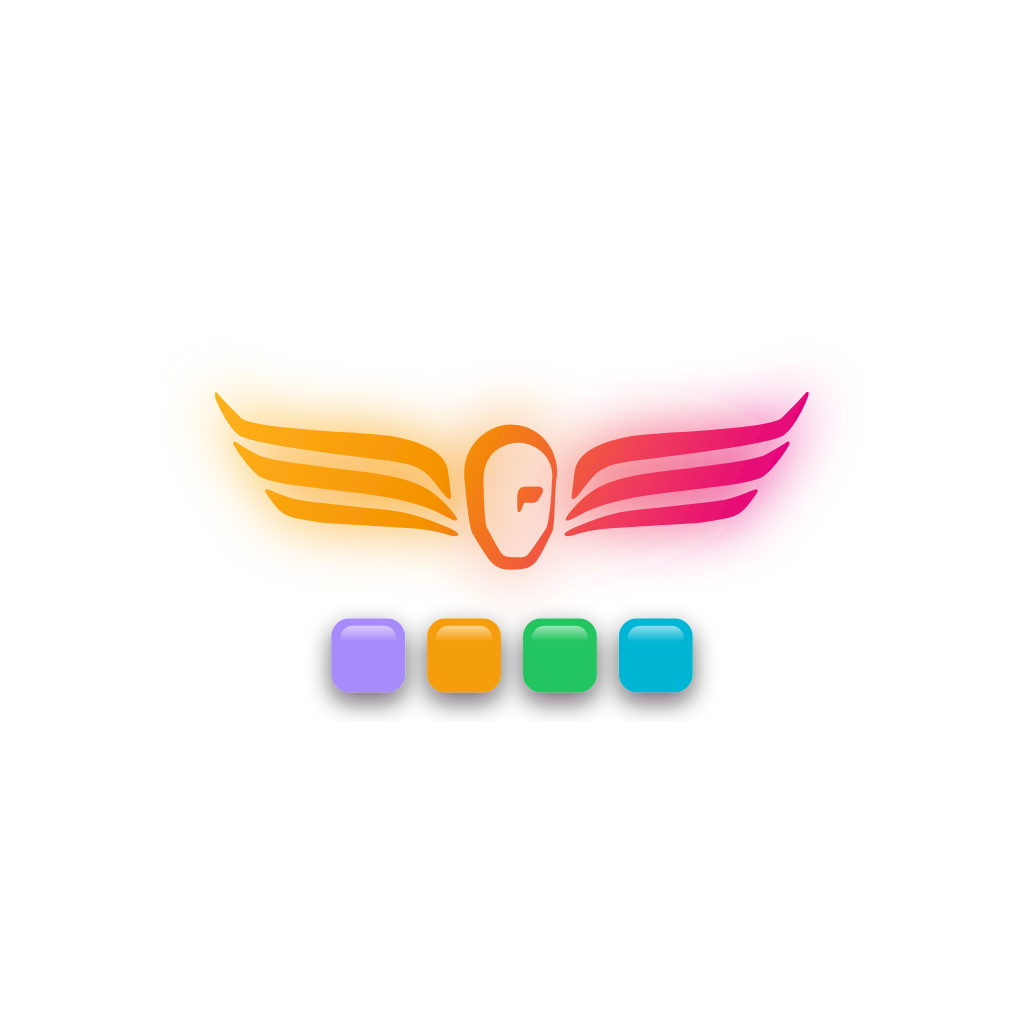
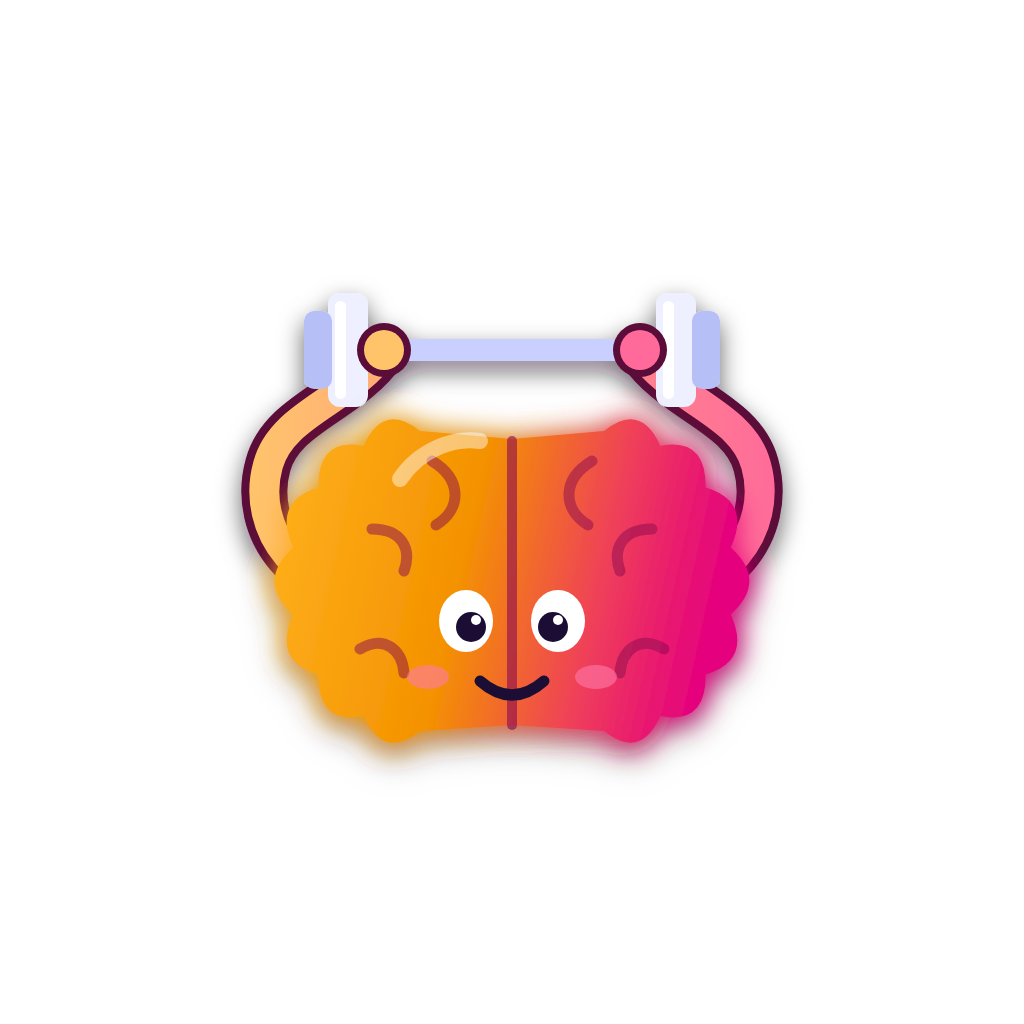
Ícono nuevo (cerebro con pesa) y ¿Cuántos quedan?: avisos al frente, nivel normal más tranquilo y nivel 4 rápido
- build-icons.py: la mascota reemplaza al grafotipo en todos los íconos;
  también en el gráfico de funciones de Play.
- Los avisos de la casa quedan por encima (z-20) de la casa.
- Nivel 3 (normal): 1.6 s por movimiento, baja a ~1.1 s en la última ronda.
- Nivel 4 nuevo con el ritmo rápido anterior.

Changed region(s): [[0.1875, 0.2812, 0.8125, 0.75]]

diff --git a/src/exercises/headcount/logic.ts b/src/exercises/headcount/logic.ts
@@ -16,6 +16,8 @@ export interface Level {
   speedUp: number;
   /** Sólo entran (nadie sale): el nivel más básico. */
   onlyIn?: boolean;
+  /** Las dos primeras rondas mueven a 1–2 personas; desde la tercera, hasta maxN. */
+  rampN?: boolean;
 }
 
 export const LEVELS: Record<string, Level> = {
@@ -29,13 +31,25 @@ export const LEVELS: Record<string, Level> = {
     onlyIn: true,
   },
   '2': { rounds: 4, baseMoves: 3, movesPerRound: 1, maxN: 2, stepMs: 1400, speedUp: 80 },
+  // Nivel normal: a paso tranquilo (la última ronda va a ~1.1 s por movimiento).
   '3': {
+    rounds: ROUNDS,
+    baseMoves: 4,
+    movesPerRound: 2,
+    maxN: 3,
+    stepMs: 1600,
+    speedUp: 120,
+    rampN: true,
+  },
+  // Rápido: para quien domina el normal (la última ronda va a ~0.6 s).
+  '4': {
     rounds: ROUNDS,
     baseMoves: 4,
     movesPerRound: 2,
     maxN: 3,
     stepMs: 1150,
     speedUp: 140,
+    rampN: true,
   },
 };
 
@@ -58,8 +72,7 @@ export function makeRound(rng: Rng, r: number, lv: Level = LEVELS['3']): Round {
   const moves: Move[] = [{ dir: 'in', n: randInt(rng, 1, Math.min(3, lv.maxN)) }];
   let inside = moves[0].n;
   const count = lv.baseMoves + r * lv.movesPerRound;
-  // En el nivel normal las dos primeras rondas mueven a 1–2 personas.
-  const maxN = lv === LEVELS['3'] ? (r >= 2 ? 3 : 2) : lv.maxN;
+  const maxN = lv.rampN && r < 2 ? Math.min(2, lv.maxN) : lv.maxN;
   while (moves.length < count) {
     const dir = lv.onlyIn || inside === 0 || rng() < 0.5 ? 'in' : 'out';
     const n = randInt(rng, 1, dir === 'out' ? Math.min(maxN, inside) : maxN);

diff --git a/src/core/i18n.ts b/src/core/i18n.ts
@@ -314,7 +314,8 @@ const es: Dict = {
   'lvl.trails.B20': 'Alternando 1→A→2→B… (20).',
   'lvl.headcount.1': '3 rondas lentas; la gente sólo entra.',
   'lvl.headcount.2': '4 rondas; entran y salen.',
-  'lvl.headcount.3': '5 rondas, cada vez más rápidas.',
+  'lvl.headcount.3': '5 rondas a paso tranquilo.',
+  'lvl.headcount.4': '5 rondas rápidas; cada vez más.',
 
   'settings.serene': 'Modo sereno',
   'settings.sereneHint':
@@ -730,7 +731,8 @@ const en: Dict = {
   'lvl.trails.B20': 'Alternating 1→A→2→B… (20).',
   'lvl.headcount.1': '3 slow rounds; people only walk in.',
   'lvl.headcount.2': '4 rounds; in and out.',
-  'lvl.headcount.3': '5 rounds, faster each time.',
+  'lvl.headcount.3': '5 rounds at a calm pace.',
+  'lvl.headcount.4': '5 fast rounds, faster each time.',
 
   'settings.serene': 'Calm mode',
   'settings.sereneHint':

diff --git a/src/exercises/headcount/HeadcountExercise.tsx b/src/exercises/headcount/HeadcountExercise.tsx
@@ -108,13 +108,13 @@ function Run({ seed, finish, lv }: RunProps & { lv: Level }) {
           </div>
         )}
         {stage === 'ready' && (
-          <p className="absolute top-3 rounded-full bg-white/80 px-3 py-1 text-sm font-semibold text-slate-800">
+          <p className="absolute top-3 z-20 rounded-full bg-white/90 px-3 py-1 text-sm font-semibold text-slate-800">
             {r === 0 ? t('headcount.empty') : t('headcount.watch')}
           </p>
         )}
         {stage === 'feedback' && (
           <p
-            className={`overlay-pop absolute top-3 rounded-full px-3 py-1 text-sm font-bold text-white ${
+            className={`overlay-pop absolute top-3 z-20 rounded-full px-3 py-1 text-sm font-bold text-white ${
               lastOk ? 'bg-green-600' : 'bg-red-600'
             }`}
           >

diff --git a/src/core/profile.ts b/src/core/profile.ts
@@ -23,7 +23,7 @@ const TARGET: Record<string, Record<string, number>> = {
   trails: { '5': 6, '10': 12, A: 16, B: 24, B20: 32 },
   countdown: { '1': 20, '2': 18, '3': 20, '7': 15 },
   numberspan: { '2': 6, forward: 8, backward: 7 },
-  headcount: { '1': 3, '2': 4, '3': 5 },
+  headcount: { '1': 3, '2': 4, '3': 5, '4': 5 },
   crowns: { '4': 20, '5': 35, '6': 60, '7': 90, '8': 150, '9': 240 },
   sunmoon: { '4': 25, '6': 60, '6h': 120, '8': 240 },
   minisudoku: { '4': 30, easy: 90, hard: 180 },

diff --git a/src/core/registry.ts b/src/core/registry.ts
@@ -155,7 +155,7 @@ export const activities: ActivityMeta[] = [
     available: true,
     accent: '#eab308',
     pointsKey: 'unit.ofFive',
-    variants: ['1', '2', '3'],
+    variants: ['1', '2', '3', '4'],
     normal: '3',
     load: () => import('../exercises/headcount/HeadcountExercise'),
   },

diff --git a/scripts/build-icons.py b/scripts/build-icons.py
@@ -1,8 +1,9 @@
 #!/usr/bin/env python3
 """Genera TODOS los íconos de SesoLibre Mind desde vectores (adaptado de sesolibre-games) (fuente única de verdad).
 
-Fuente: assets/src/grafotipo.path (trazo vectorial del logo oficial de
-SesoLibre: alas + cabeza, sin el texto). El diseño se compone aquí en SVG y se
+Ícono: un cerebro levantando una pesa, con la paleta de SesoLibre. El grafotipo
+(assets/src/grafotipo.path: alas + cabeza del logo oficial) sigue disponible
+vía mark() para la gráfica de Play. El diseño se compone aquí en SVG y se
 rasteriza con Chrome headless (mismo motor que la PWA), así que cualquier
 tamaño sale nítido.
 
@@ -19,7 +20,7 @@ Salidas:
   assets/play/icon-512.png        ícono de la ficha de Google Play
 
 Uso:  npm run icons   (= python3 scripts/build-icons.py; requiere google-chrome / chromium)
-Luego: npm run assets:android  para regenerar los mipmaps locales.
+Los mipmaps de Android se regeneran solos en scripts/android-apk.sh y android-aab.sh.
 """
 from __future__ import annotations
 
@@ -27,6 +28,7 @@ import os
 import shutil
 import subprocess
 import sys
+import math
 import tempfile
 from pathlib import Path
 
@@ -136,6 +138,84 @@ def tiles(cx: float, cy: float, size: float, gap: float) -> str:
         )
     return f'<g filter="url(#drop)">{"".join(out)}</g>'
 
+# --- Mascota: un cerebro levantando una pesa -------------------------------
+# Dibujado en coordenadas de 1024 alrededor de (512, BRAIN_CY); `brain()` lo
+# coloca y escala. Ocupa aprox. x 250..774, y 284..722: cabe en el círculo
+# seguro del ícono adaptativo (radio ~313) a escala 1.
+BRAIN_CY = 503
+
+def _scallop(cx, cy, rx, ry, n, bulge, a0, a1):
+    """Contorno festoneado sobre un arco de elipse (ángulos en grados, sentido horario en pantalla)."""
+    pts=[]
+    for k in range(n+1):
+        a=math.radians(a0+(a1-a0)*k/n)
+        pts.append((cx+rx*math.cos(a), cy+ry*math.sin(a)))
+    d=f'M{pts[0][0]:.1f} {pts[0][1]:.1f}'
+    for k in range(n):
+        am=math.radians(a0+(a1-a0)*(k+0.5)/n)
+        qx=cx+(rx+bulge)*math.cos(am); qy=cy+(ry+bulge)*math.sin(am)
+        x,y=pts[k+1]
+        d+=f' Q{qx:.1f} {qy:.1f} {x:.1f} {y:.1f}'
+    return d
+
+def _hemi(side):
+    # side -1 izquierda, +1 derecha. Centro del hemisferio desplazado del eje.
+    cx=512+side*92; cy=572; rx=130; ry=150
+    if side<0:
+        d=_scallop(cx,cy,rx,ry,7,34,90,270)  # de abajo, por la izquierda, a arriba
+        d+=f' L512 {cy-ry+8} L512 {cy+ry-6} Z'
+    else:
+        d=_scallop(cx,cy,rx,ry,7,34,-90,90)
+        d+=f' L512 {cy+ry-6} L512 {cy-ry+8} Z'
+    return d
+
+BRAIN_D = _hemi(-1)+' '+_hemi(1)
+
+GYRI = ' '.join([
+  'M432 452 C 462 470, 462 500, 436 516',
+  'M592 452 C 562 470, 562 500, 588 516',
+  'M372 520 C 402 520, 412 540, 404 562',
+  'M652 520 C 622 520, 612 540, 620 562',
+  'M360 640 C 384 626, 402 640, 404 664',
+  'M664 640 C 640 626, 622 640, 620 664',
+])
+
+def _brain_body() -> str:
+    face=('<ellipse cx="466" cy="612" rx="27" ry="31" fill="#fff"/>'
+          '<ellipse cx="558" cy="612" rx="27" ry="31" fill="#fff"/>'
+          '<circle cx="471" cy="618" r="15" fill="#1b1036"/>'
+          '<circle cx="553" cy="618" r="15" fill="#1b1036"/>'
+          '<circle cx="476" cy="611" r="5" fill="#fff"/><circle cx="558" cy="611" r="5" fill="#fff"/>'
+          '<path d="M480 672 Q 512 700, 544 672" fill="none" stroke="#1b1036" stroke-width="11" stroke-linecap="round"/>'
+          '<ellipse cx="428" cy="668" rx="21" ry="12" fill="#ff7aa8" opacity="0.6"/>'
+          '<ellipse cx="596" cy="668" rx="21" ry="12" fill="#ff7aa8" opacity="0.6"/>')
+    db=('<rect x="352" y="330" width="320" height="22" rx="11" fill="#c9d0ff"/>'
+        '<rect x="328" y="284" width="40" height="114" rx="12" fill="#eef0ff"/>'
+        '<rect x="304" y="302" width="28" height="78" rx="10" fill="#b7bff7"/>'
+        '<rect x="656" y="284" width="40" height="114" rx="12" fill="#eef0ff"/>'
+        '<rect x="692" y="302" width="28" height="78" rx="10" fill="#b7bff7"/>'
+        '<rect x="335" y="292" width="11" height="98" rx="5.5" fill="#fff"/>'
+        '<rect x="663" y="292" width="11" height="98" rx="5.5" fill="#fff"/>')
+    arms='M384 580 C 300 590, 250 520, 268 456 C 282 404, 350 392, 384 342 M640 580 C 724 590, 774 520, 756 456 C 742 404, 674 392, 640 342'
+    hands='<circle cx="384" cy="341" r="27" fill="#5a0838"/><circle cx="640" cy="341" r="27" fill="#5a0838"/><circle cx="384" cy="341" r="20" fill="#ffc46b"/><circle cx="640" cy="341" r="20" fill="#ff6b9a"/>'
+    shine='<path d="M400 470 C 420 440, 455 428, 480 432" fill="none" stroke="#fff" stroke-opacity="0.45" stroke-width="16" stroke-linecap="round"/>'
+    return (
+      '<defs><linearGradient id="arm" gradientUnits="userSpaceOnUse" x1="250" y1="0" x2="774" y2="0"><stop offset="0" stop-color="#ffc46b"/><stop offset="1" stop-color="#ff6b9a"/></linearGradient></defs>'
+      '<g filter="url(#drop)">'
+      f'<path d="{arms}" fill="none" stroke="#5a0838" stroke-width="46" stroke-linecap="round"/>'
+      f'<path d="{arms}" fill="none" stroke="url(#arm)" stroke-width="30" stroke-linecap="round"/>'
+      f'{db}{hands}'
+      f'<path d="{BRAIN_D}" fill="url(#brand)" filter="url(#glow)"/>'
+      '<path d="M512 432 L512 716" stroke="#8a0a4e" stroke-opacity="0.6" stroke-width="10" stroke-linecap="round"/>'
+      f'<path d="{GYRI}" fill="none" stroke="#8a0a4e" stroke-opacity="0.5" stroke-width="11" stroke-linecap="round"/>'
+      f'{shine}{face}</g>')
+
+
+def brain(cx: float, cy: float, scale: float = 1.0) -> str:
+    tx = cx - 512 * scale
+    ty = cy - BRAIN_CY * scale
+    return f'<g transform="translate({tx:.2f},{ty:.2f}) scale({scale:.4f})">{_brain_body()}</g>'
+
 
 def background(size: int = 1024) -> str:
     c = size / 2
@@ -156,15 +236,7 @@ def background(size: int = 1024) -> str:
 def foreground(size: int = 1024, scale: float = 1.0) -> str:
     """Contenido central. `scale` 1.0 = cabe en la zona segura adaptativa (61%)."""
     c = size / 2
-    # Las puntas de las alas son lo más alejado del centro: con 0.58 y la marca
-    # casi centrada quedan dentro del círculo seguro de 66/108 dp.
-    w = size * 0.58 * scale
-    mark_cy = c - size * 0.03 * scale
-    tile = size * 0.072 * scale
-    return (
-        mark(c, mark_cy, w, fill='url(#brand)', extra='filter="url(#glow)"')
-        + tiles(c, c + size * 0.14 * scale, tile, tile * 0.3)
-    )
+    return brain(c, c, size / 1024 * scale)
 
 
 def svg(body: str, size: int = 1024, *, rounded: float | None = None) -> str:
@@ -214,10 +286,9 @@ def main() -> None:
     pwa = svg(background() + foreground(scale=1.3), rounded=200)
     fg_only = svg(foreground())
     bg_only = svg(background())
-    # Favicon: sin textura ni fichas (ilegibles a 16-32px), esquinas redondeadas.
+    # Favicon: sin textura (ilegible a 16-32px), esquinas redondeadas.
     fav = svg(
-        f'<rect width="1024" height="1024" fill="url(#bg)"/>'
-        + mark(512, 512, 900, fill='url(#brand)'),
+        f'<rect width="1024" height="1024" fill="url(#bg)"/>' + brain(512, 512, 1.75),
         rounded=220,
     )
 

diff --git a/scripts/build-feature-graphic.py b/scripts/build-feature-graphic.py
@@ -1,7 +1,7 @@
 #!/usr/bin/env python3
 """Gráfico de funciones de Google Play (1024×500), en español e inglés.
 
-Reutiliza el grafotipo, los degradados y las fichas de build-icons.py y lo
+Reutiliza la mascota (cerebro con pesa) y los degradados de build-icons.py y lo
 rasteriza con Chrome headless.
 
 Salidas: assets/play/feature-graphic.png (es) y assets/play/feature-graphic-en.png
@@ -43,8 +43,7 @@ def graphic(lang: str) -> str:
 <rect width="{W}" height="{H}" fill="url(#bgw)"/>
 <g fill="#ffffff" fill-opacity="0.05">{dots}</g>
 <ellipse cx="235" cy="230" rx="230" ry="160" fill="url(#halo)"/>
-{icons.mark(235, 215, 350, fill='url(#brand)', extra='filter="url(#glow)"')}
-{icons.tiles(235, 320, 42, 13)}
+{icons.brain(235, 250, 0.68)}
 <g font-family="Roboto, 'Noto Sans', Arial, sans-serif" fill="#ffffff">
   <text x="470" y="160" font-size="28" font-weight="700" fill="#c7d2fe" letter-spacing="2">SESOLIBRE MIND</text>
   <text x="470" y="226" font-size="46" font-weight="800">{title}</text>
